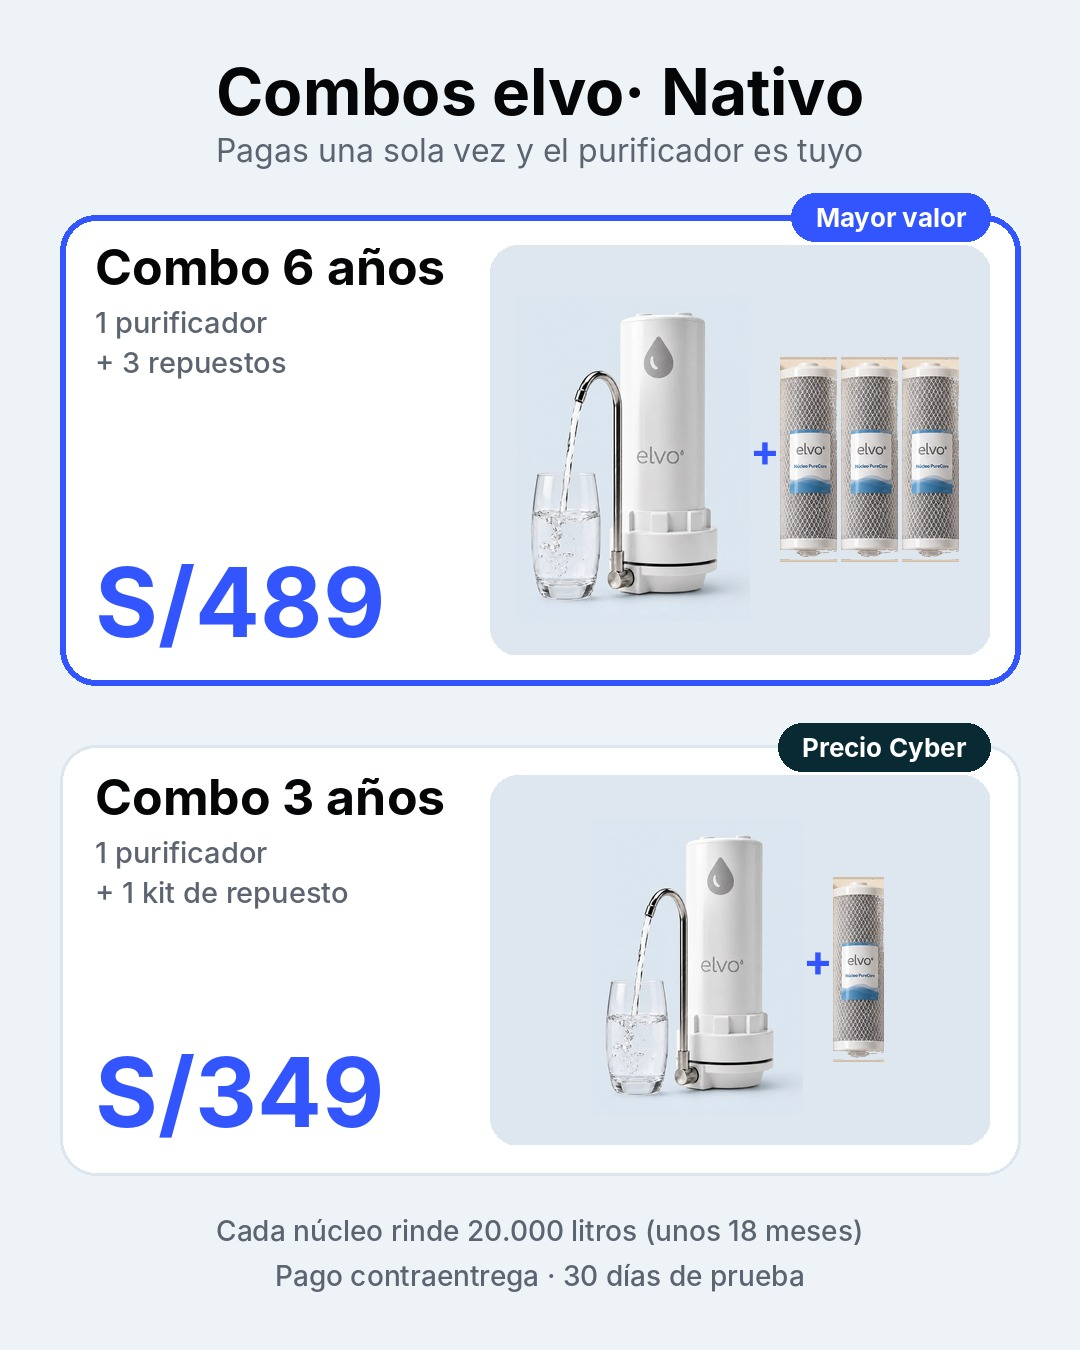
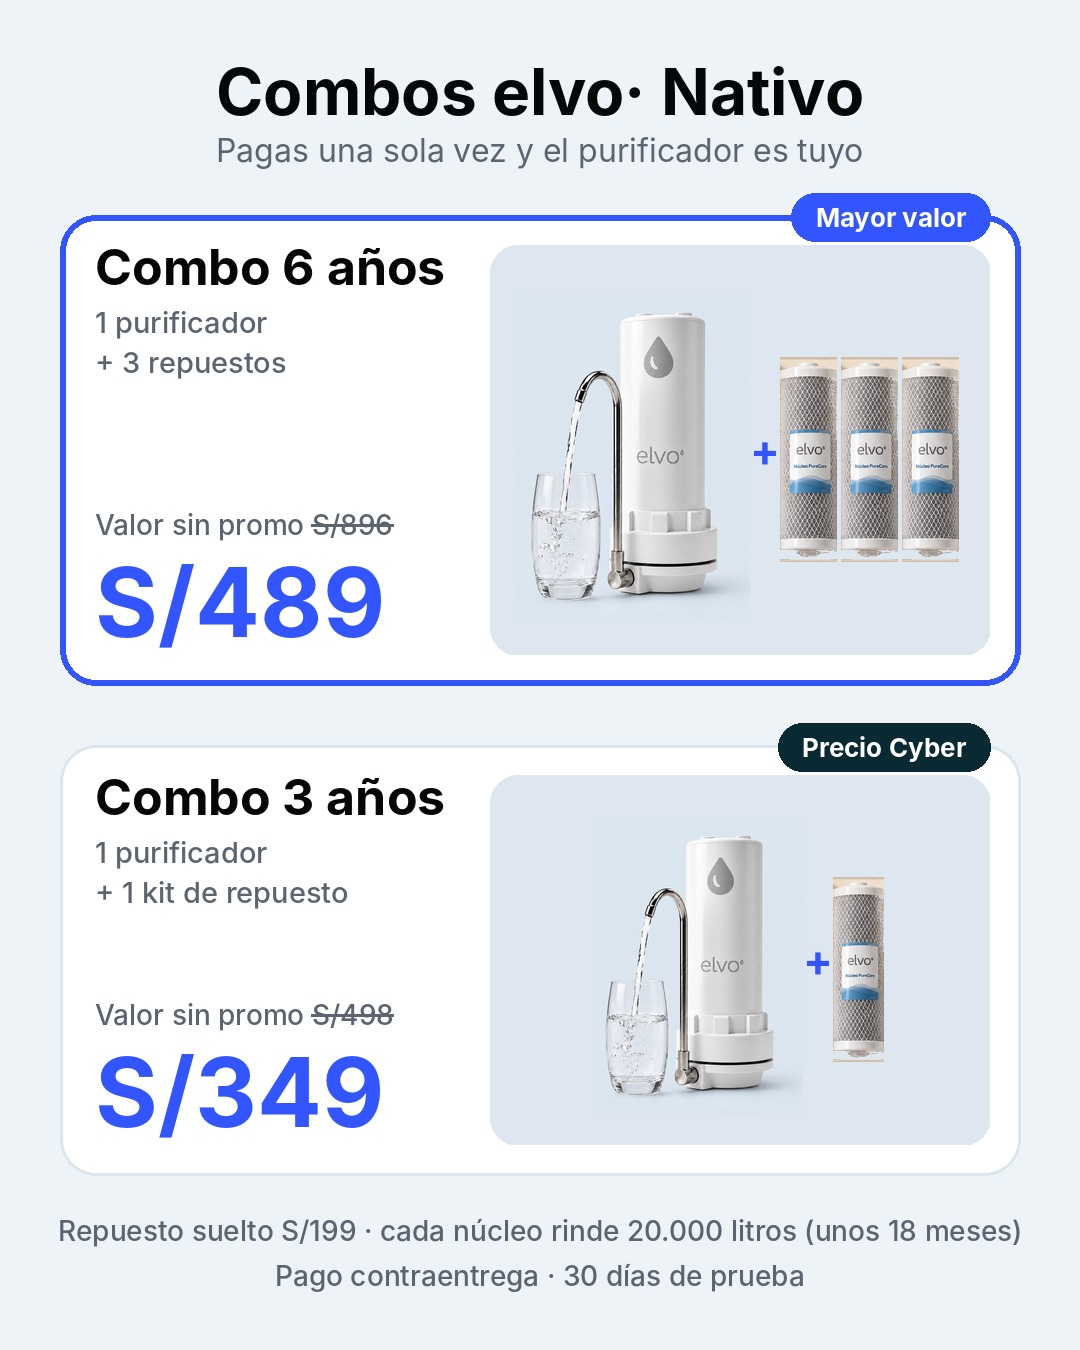
Sofía v2: show combo value vs list price; combos image with valor sin promo
Claude-Session: https://claude.ai/code/session_017NiUFQc9Av1e7ZJ2CJbVKX

Changed region(s): [[0.0611, 0.9022, 0.9472, 0.9333], [0.0917, 0.7467, 0.3667, 0.7778], [0.0917, 0.3733, 0.3667, 0.4044]]

diff --git a/brands/elvo/yavendio/build_combos.py b/brands/elvo/yavendio/build_combos.py
@@ -20,7 +20,7 @@ def keyout(img):
 nuk=keyout(nu)
 def rmask(size,r):
     m=Image.new('L',size,0); ImageDraw.Draw(m).rounded_rectangle((0,0,size[0],size[1]),radius=r,fill=255); return m
-def card(y,h,badge,title,line,price,nrep,hl):
+def card(y,h,badge,title,line,price,nrep,hl,valor=''):
     d.rounded_rectangle((60,y,W-60,y+h),radius=36,fill='white',outline=BLUE if hl else ICE,width=6 if hl else 3)
     bw=d.textlength(badge,font=f('Bold',26))+48
     d.rounded_rectangle((W-60-bw-30,y-22,W-60-30,y+26),radius=24,fill=BLUE if hl else PET)
@@ -29,6 +29,8 @@ def card(y,h,badge,title,line,price,nrep,hl):
     d.text((95,y+70),title,font=f('Bold',50),fill=INK,anchor='ls')
     ft=f('Medium',29); ls=[l for l in line.split('|')]
     for i,l in enumerate(ls): d.text((95,y+118+i*40),l,font=ft,fill=GRAY,anchor='ls')
+    d.text((95,y+h-150),'Valor sin promo '+valor,font=f('Medium',28),fill=GRAY,anchor='ls')
+    wv=d.textlength('Valor sin promo '+valor,font=f('Medium',28)); d.line((95+d.textlength('Valor sin promo ',font=f('Medium',28)),y+h-160,95+wv,y+h-160),fill=GRAY,width=3)
     d.text((95,y+h-48),price,font=f('Bold',96),fill=BLUE,anchor='ls')
     # visuales a la derecha
     pw,ph=500,h-60; px0=W-60-30-pw; py0=y+30
@@ -43,9 +45,9 @@ def card(y,h,badge,title,line,price,nrep,hl):
     for i in range(nrep):
         panel.paste(n,(x+i*(n.width+4),int((ph-nh)/2)+10),n)
     im.paste(panel,(px0,py0),rmask((pw,ph),28))
-card(215,470,'Mayor valor','Combo 6 años','1 purificador|+ 3 repuestos','S/489',3,True)
-card(745,430,'Precio Cyber','Combo 3 años','1 purificador|+ 1 kit de repuesto','S/349',1,False)
-d.text((W/2,1230),'Cada núcleo rinde 20.000 litros (unos 18 meses)',font=f('Medium',28),fill=GRAY,anchor='mm')
+card(215,470,'Mayor valor','Combo 6 años','1 purificador|+ 3 repuestos','S/489',3,True,'S/896')
+card(745,430,'Precio Cyber','Combo 3 años','1 purificador|+ 1 kit de repuesto','S/349',1,False,'S/498')
+d.text((W/2,1230),'Repuesto suelto S/199 · cada núcleo rinde 20.000 litros (unos 18 meses)',font=f('Medium',28),fill=GRAY,anchor='mm')
 d.text((W/2,1275),'Pago contraentrega · 30 días de prueba',font=f('Medium',28),fill=GRAY,anchor='mm')
 im.save('imagenes/combos-elvo-nativo.jpg',quality=92); im.save('imagenes/combos-elvo-nativo.png')
 print('ok')
